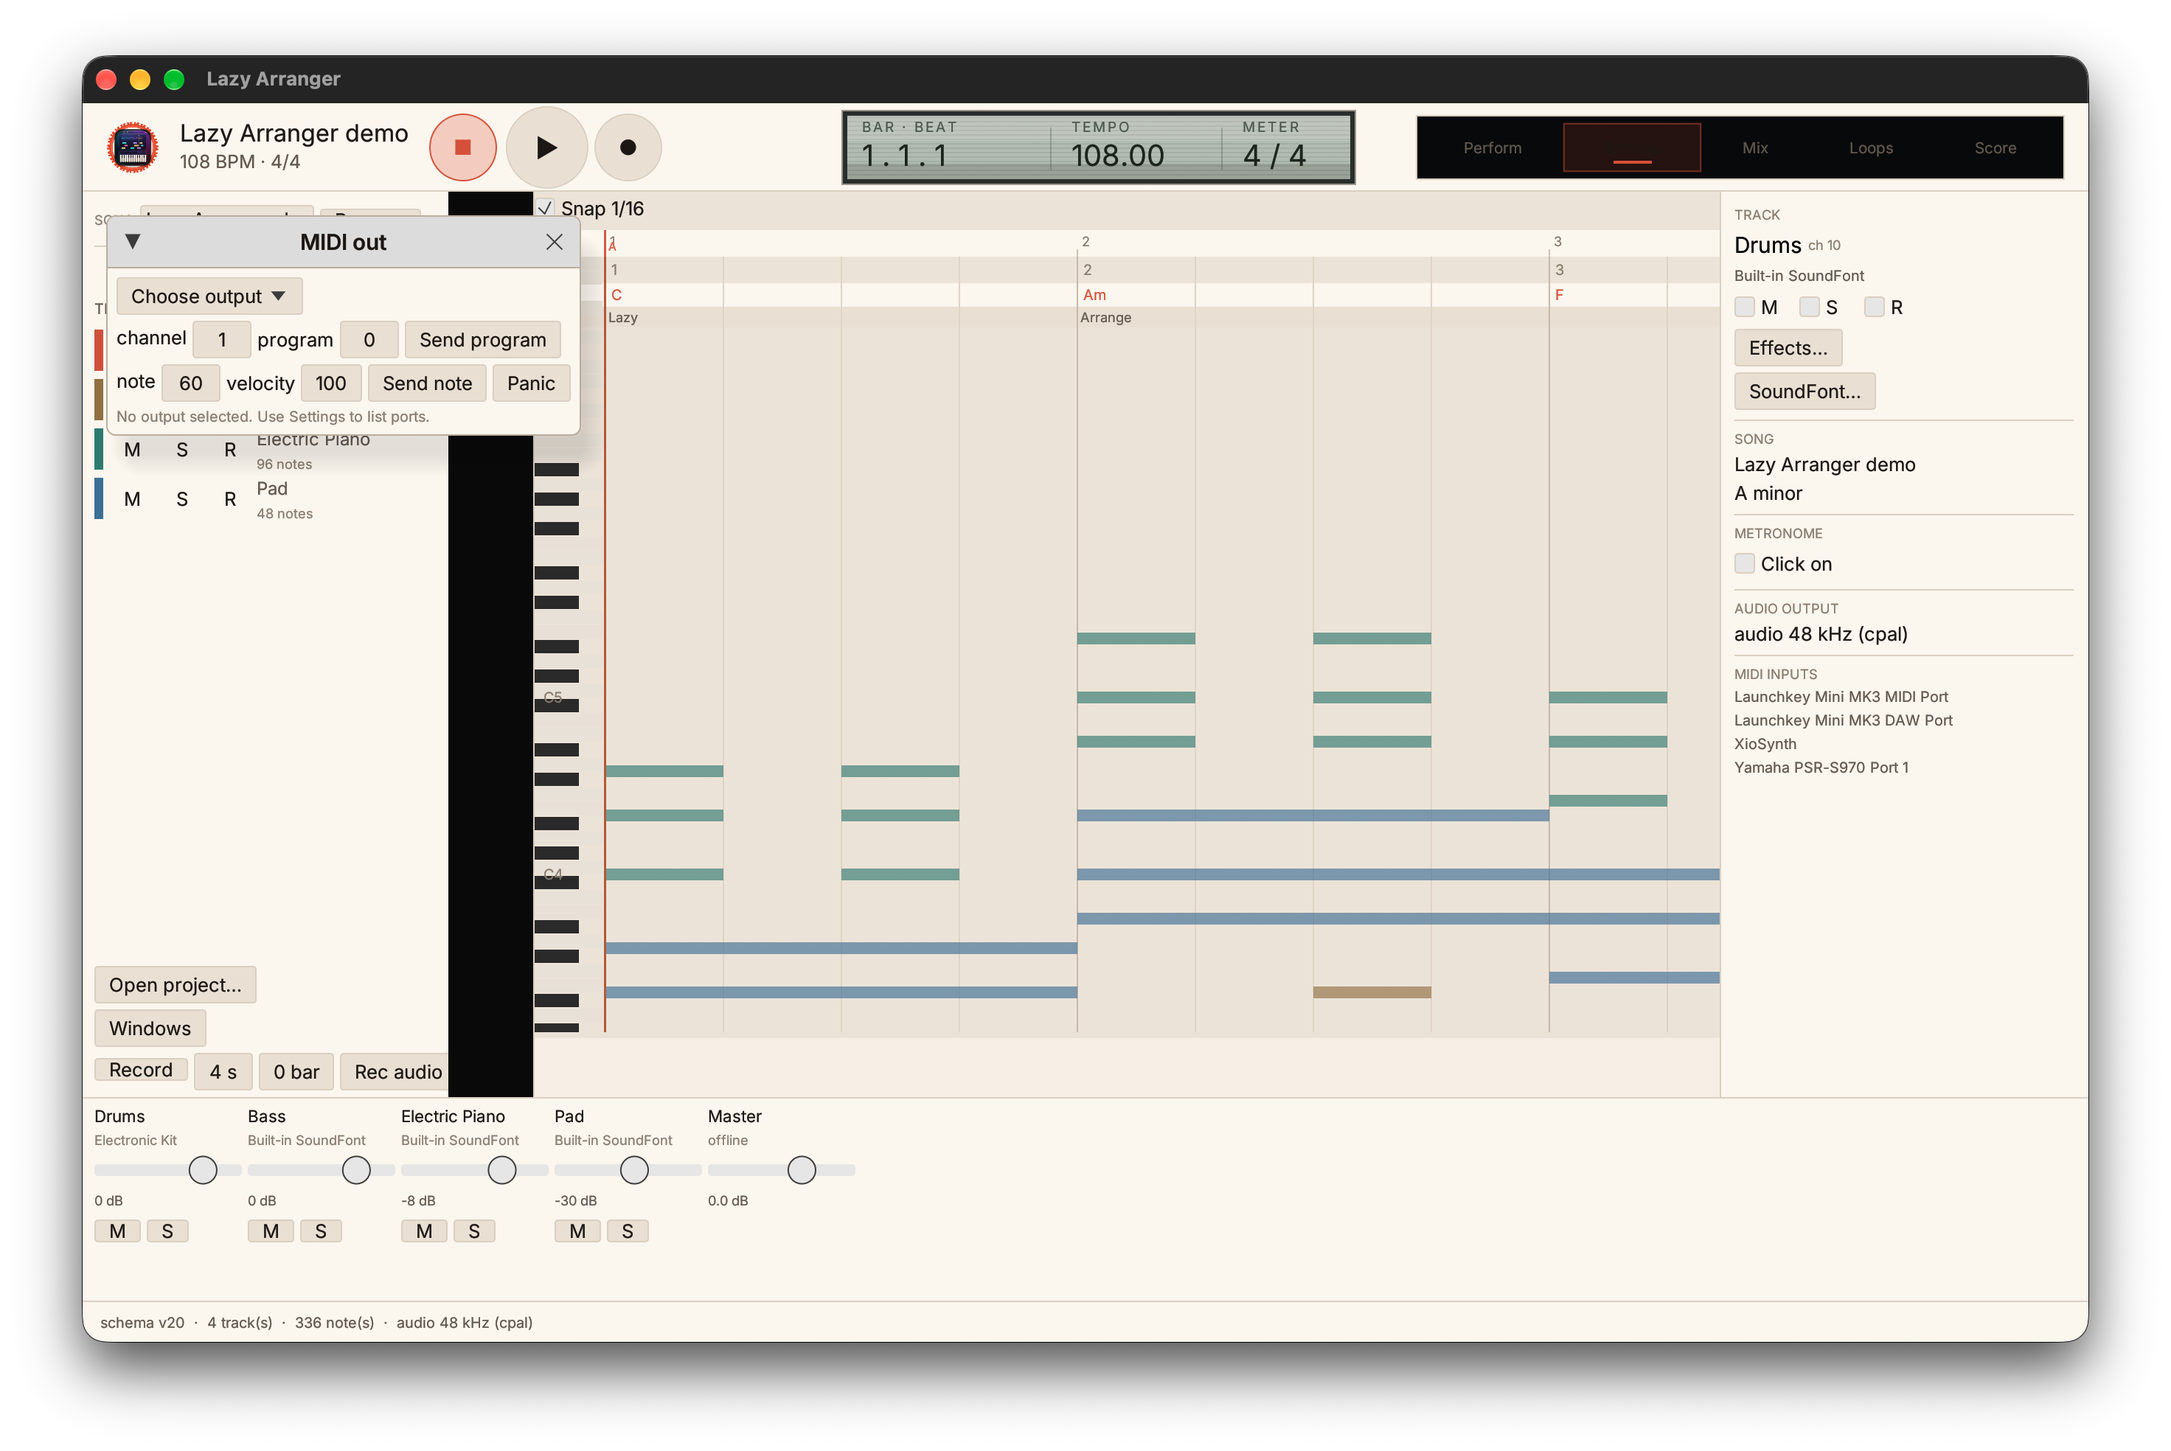
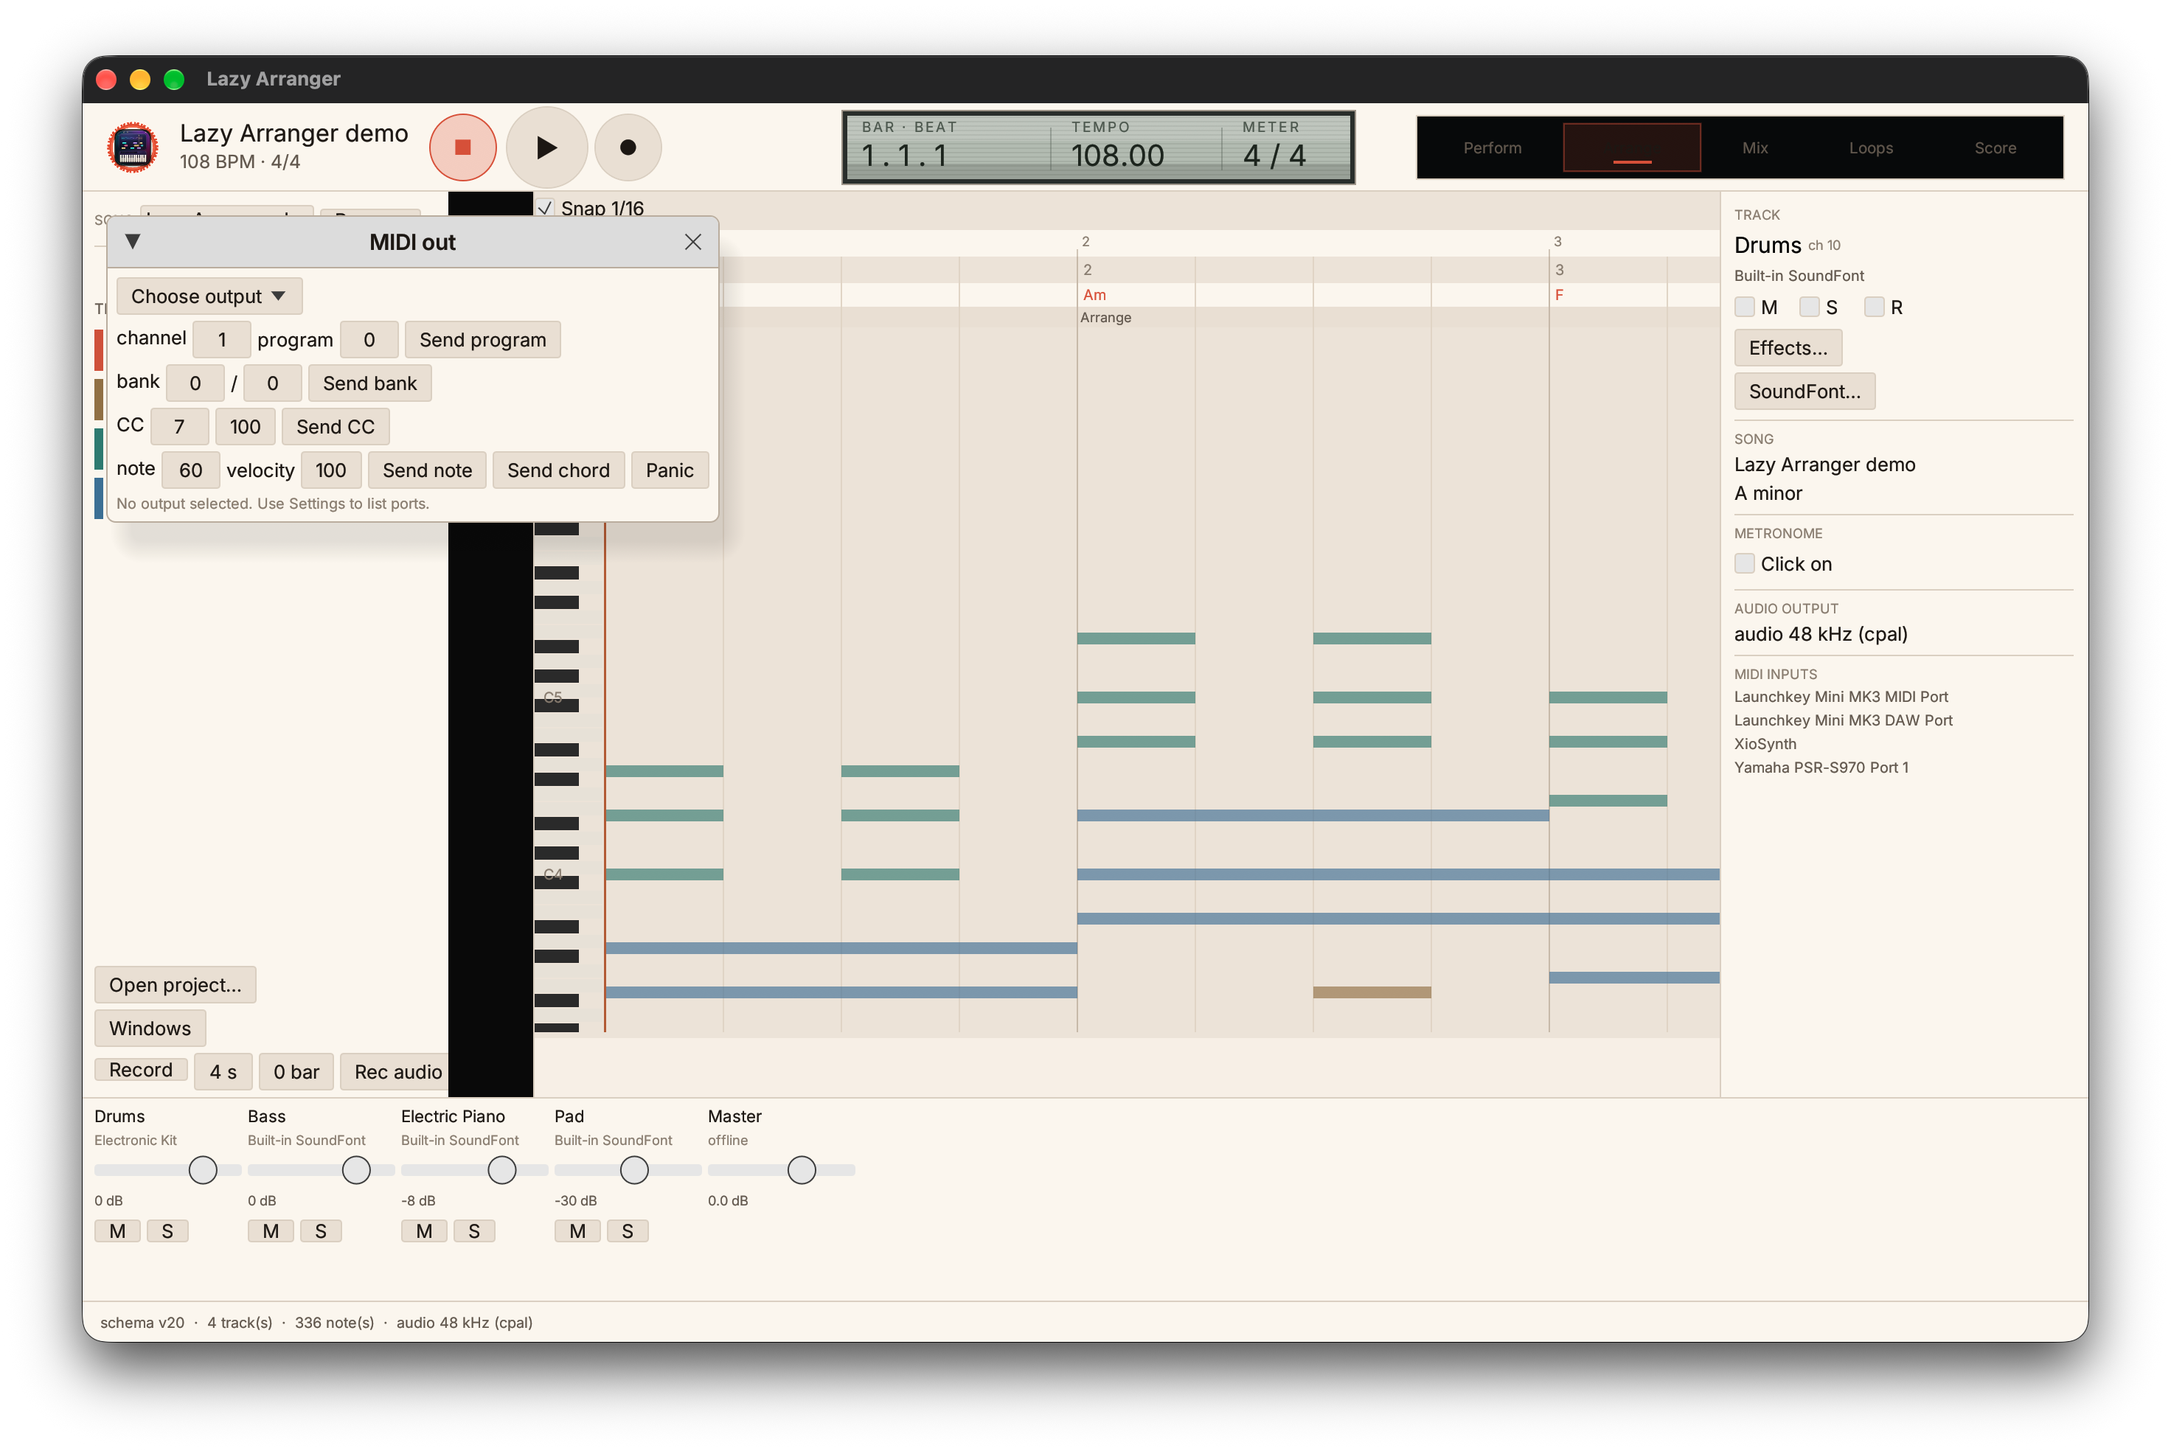
feat(desktop): send bank select and CC from MIDI out
Adds bank MSB/LSB and CC controls, refreshes the window capture and corrects the
stale timeline-lyrics audit note.

692 tests pass; clippy, fmt and rustdoc clean.

Changed region(s): [[0.0312, 0.155, 0.3438, 0.372], [0.125, 0.155, 0.2188, 0.186]]

diff --git a/apps/desktop/src/app.rs b/apps/desktop/src/app.rs
@@ -517,6 +517,10 @@ pub struct ShellApp {
     midi_out_program: u8,
     midi_out_note: u8,
     midi_out_velocity: u8,
+    midi_out_cc: u8,
+    midi_out_cc_value: u8,
+    midi_out_bank_msb: u8,
+    midi_out_bank_lsb: u8,
     au_editor_open: bool,
     au_editor_track: Option<TrackId>,
     au_editor_slot: Option<u32>,
@@ -739,6 +743,10 @@ impl ShellApp {
             midi_out_program: 0,
             midi_out_note: 60,
             midi_out_velocity: 100,
+            midi_out_cc: 7,
+            midi_out_cc_value: 100,
+            midi_out_bank_msb: 0,
+            midi_out_bank_lsb: 0,
             au_editor_open: false,
             au_editor_track: None,
             au_editor_slot: None,
@@ -2665,6 +2673,47 @@ impl ShellApp {
                         self.send_midi(music_core::MidiMessage::ProgramChange {
                             channel,
                             program: self.midi_out_program,
+                        });
+                    }
+                });
+                ui.horizontal(|ui| {
+                    ui.label("bank");
+                    ui.add(egui::DragValue::new(&mut self.midi_out_bank_msb).range(0..=127));
+                    ui.label("/");
+                    ui.add(egui::DragValue::new(&mut self.midi_out_bank_lsb).range(0..=127));
+                    if ui.button("Send bank").clicked()
+                        && let (Ok(channel), Ok(msb), Ok(lsb)) = (
+                            music_core::Channel::from_one_based(self.midi_out_channel),
+                            music_core::ControlNumber::new(0),
+                            music_core::ControlNumber::new(32),
+                        )
+                    {
+                        self.send_midi(music_core::MidiMessage::ControlChange {
+                            channel,
+                            controller: msb,
+                            value: self.midi_out_bank_msb,
+                        });
+                        self.send_midi(music_core::MidiMessage::ControlChange {
+                            channel,
+                            controller: lsb,
+                            value: self.midi_out_bank_lsb,
+                        });
+                    }
+                });
+                ui.horizontal(|ui| {
+                    ui.label("CC");
+                    ui.add(egui::DragValue::new(&mut self.midi_out_cc).range(0..=127));
+                    ui.add(egui::DragValue::new(&mut self.midi_out_cc_value).range(0..=127));
+                    if ui.button("Send CC").clicked()
+                        && let (Ok(channel), Ok(controller)) = (
+                            music_core::Channel::from_one_based(self.midi_out_channel),
+                            music_core::ControlNumber::new(self.midi_out_cc),
+                        )
+                    {
+                        self.send_midi(music_core::MidiMessage::ControlChange {
+                            channel,
+                            controller,
+                            value: self.midi_out_cc_value,
                         });
                     }
                 });

diff --git a/docs/audit/cpp-features-crosscheck.md b/docs/audit/cpp-features-crosscheck.md
@@ -11,7 +11,7 @@ section below is a row, so nothing is skipped. Status: **verified**,
 | 2 | Window: header, views, inspector, mixer panel, AI panel, light theme, zoom | partial | Header, LCD, five views, track list, Mix strips, volume automation lane, dark and light palettes (Settings toggle, live refresh), square corners, wheel and slider zoom; an Inspector window shows/edits the selected track's name, gain, pan, flags, program and summaries, and sidebar has a Windows menu for Inspector, Library, Pads, Assistant, MIDI map, Controllers, Lyrics, Markers, imports/exports and Settings. Light palette is selected in Settings; `docs/audit/light-theme.png` is a captured light window |
 | 3 | Tracks | partial | MIDI tracks with program, volume, pan, mute/solo/arm and audio references (schema v11); track list, mixer strips and keyboard export honour them; tracks also carry a SoundFont reference (v16) and audio references draw waveform peaks. No per-track input routing or multiple outputs |
 | 4 | Transport: play/stop, start, record, loop, metronome, ruler, tempo/meter edit, MIDI record, all-notes-off, auto inputs | partial | Audio play/pause/stop with silence on stop; CLI MIDI record/echo and clip-grid take recording. A sidebar Record button captures the selected MIDI keyboard for a chosen 1–60 s on a background thread and inserts the notes as one undoable track; the piano-roll ruler shows bar numbers and clicking it seeks the live player through the tempo map; `midi-panic` sends CC 123 on all 16 channels to a named output (no ports attached here, so the send is unverified); a persisted 0–2 bar count-in plays an audible metronome through a temporary cpal player before MIDI recording; the header transport has a record button and track rows have an R arm toggle; MIDI recording appends to the armed track (new track when none is armed); the 0–2 bar audible count-in precedes audio-input capture, which targets a record-armed track's audio reference; audio capture and input monitoring can select a named input device from Settings and fall back to the system default; no auto inputs; a Settings toggle quantises recorded starts to 1/16 before the take is inserted; the Inspector lists tempo changes and writes one at the playhead. The sidebar has Loop and From bar controls (playback restarts at the loop start), and a generated click track (bar downbeats accented) mixes into playback and `export-audio --metronome` |
-| 5 | Timeline clips | partial | Clip and chord lanes: click select, arrow move, shift+arrow resize, J join, N add, Delete remove; clip commands are undoable with overlap rejection. Markers and syllables are editable in Markers and Lyrics windows; markers draw in the bar ruler and each row has Go (add at playhead, edit or remove); timeline lyrics are not drawn in the roll; the Snap 1/16 toggle governs note drags and insertions; Shift-click and marquee multi-select clips, with arrow/Shift-arrow/Delete operations |
+| 5 | Timeline clips | partial | Clip and chord lanes: click select, arrow move, shift+arrow resize, J join, N add, Delete remove; clip commands are undoable with overlap rejection. Markers and syllables are editable in Markers and Lyrics windows; markers draw in the bar ruler and each row has Go (add at playhead, edit or remove); timeline lyrics draw in their lane and a click seeks the playhead to the syllable; the Snap 1/16 toggle governs note drags and insertions; Shift-click and marquee multi-select clips, with arrow/Shift-arrow/Delete operations |
 | 6 | Note editor: add/select/move/resize/delete, arrows, velocity lane, grid, quantise, piano keys, select all | partial | Click insert, select, delete, undo/redo, save, scroll/zoom. Drag a note body to move start and pitch, or its right edge to resize; starts snap to a 1/16 grid and each change is one command. Quantise 1/16 and 1/8 buttons snap all starts; A velocity lane under the roll draws per-note bars and click/drag sets velocity through one command; a piano-key strip auditions a pitch on click, and Cmd/Ctrl+A selects all notes on the selected track for one-step multi-delete. No copy/paste across views |
 | 7 | Cut/copy/paste in every view | partial | Notes copy, cut and paste in Arrange with Cmd/Ctrl+C/X/V at the playhead, each paste one undo step; a chord range can be copied and pasted through the same clipboard. Cmd/Ctrl+C/X/V also work on a multi-selection: copy takes every selected note, cut copies then deletes in one edit per track, and paste lands at the playhead. Paste lands at the mouse tick when the pointer is over the roll, else at the playhead; clicking a notehead in the Score selects it, and clicking a chord in the chord lane selects it; C/X/V copy, remove and paste chord ranges there, and Shift+V pastes the range four times one range-length apart as one edit. Note ranges still paste once |
 | 8 | Audio tracks | partial | Audio references (schema v12; fades in v17) with WAV import at 16/24/32-bit PCM and 32-bit float plus symphonia FLAC/MP3/M4A/AIFF/OGG decode, an in-point, waveform peaks drawn in Arrange, trim-from-front through one undoable command, tempo-derived length, and mixing into render and cpal playback with mute/solo, resampling and reported files. A bounce command renders the mix, writes a WAV and inserts it as an audio track (one undoable insert); a Mixer Freeze button renders one track to WAV, clears its notes and sets its audio reference atomically; export-stems and the shell Export stems mode write each audible track to its own WAV plus a stems.txt manifest (demo produced 4 files); audio references carry fade-in/fade-out lengths mixed as linear ramps and set from the trim row. `stretch` resamples a reference to its clip length (pitch shifts; it is not a phase-vocoder stretch); the waveform has zoom and position sliders; `record-audio` and a sidebar Rec audio button capture the default input through cpal to WAV; an Import audio window adds WAV or compressed audio as an audio track; `wav-gain`/`wav-normalize` edit files and the trim row Normalize writes a normalized copy and switches the reference; an optional input monitor (Settings, default off, feedback risk) opens cpal input and output streams and is unverified on hardware; each capture becomes its own audio track unless a track is record-armed, in which case the take replaces that track's audio reference; there is no take list or comping (a scoped model/UI decision) and no in-place destructive waveform editing; capture/permission remain unverified here |
@@ -30,7 +30,7 @@ section below is a row, so nothing is skipped. Status: **verified**,
 | 21 | MIDI devices and profiles | partial | One built-in PSR-S970 voice subset plus a YAML-subset loader (id, name, voices, banks, drum kits) with validation and keyword matching (`device-profile` resolved Finger Bass to 33); port enumeration, live input, CLI record/echo. Bank and drum-kit entries drive `export-keyboard --profile`: bank select MSB/LSB is written before each program, drums use the kit program and bank (audit: msb [63,0,0,0], lsb [0,1,1,1]). The Controllers window keeps the last 16 decoded note/CC/program/bend messages; no other devices or profile overrides |
 | 22 | Synth sound editors (D-05, XioSynth, S970 XG, L6max), sysex dumps | partial | A per-track synth patch (sine/saw/square/triangle, attack, decay, sustain, release, brightness) in schema v14, honoured by the render, edited through one undoable command, and exposed by a Synth patch window with Apply/Default/Clear (capture `docs/audit/synth-patch.png`). A generic Yamaha parameter-change builder with the 7-bit checksum and an XG System On dump (`sysex-xg-on`, 10 bytes written). No device-specific panels (D-05, XioSynth, S970 XG) or patch dumps |
 | 23 | Controller pages, MIDI Map, MIDI Learn, channel check | partial | MIDI map model with text persistence, learn capture, CLI bind/show, live application of play/stop/undo/scene/fader/pad, a MIDI map window that chooses an action, learns the next note/CC, saves automatically and clears bindings (with inline hints), `midi-channel-check` sends note-on/off on a chosen channel, and a Controllers window lists CC bindings with live values, starts a learn session and saves it. No MIDI ports were available here, so live values and the send remain hardware-unverified |
-| 24 | PSR-S970 tools | partial | Song export with setup bar, program, volume, pan, chord markers, lyrics and drums on channel 10, plus a byte-level audit that re-parses the file; the demo exported 5 tracks, 4 programs/volumes/pans, 16 chord markers and 128 drum notes. Numbered style catalog and `style-by-number` rendering. A MIDI out window sends program changes, notes, chords and panic to a chosen output, persists the output choice (`docs/audit/midi-out.png`); no registration remote, audition queue or hardware verification |
+| 24 | PSR-S970 tools | partial | Song export with setup bar, program, volume, pan, chord markers, lyrics and drums on channel 10, plus a byte-level audit that re-parses the file; the demo exported 5 tracks, 4 programs/volumes/pans, 16 chord markers and 128 drum notes. Numbered style catalog and `style-by-number` rendering. A MIDI out window sends program changes, bank select, CC, notes, chords and panic to a chosen output, persists the output choice (`docs/audit/midi-out.png`); no registration remote, audition queue or hardware verification |
 | 25 | Music Finder and Playlists | partial | JSON, CSV, TSV and MFD import (1,653-record real file), CLI, and an L-key Library window that loads any of those, searches title/detail, applies an entry's tempo and imports the row's style through the catalog (setting or ARRANGER_STYLE_LIBRARY), inserting its tracks with fresh ids and a prefix. Playlist rows are listed but not opened; `playlist-from-csv` converts a Music Finder CSV into a Yamaha playlist TSV (2 entries written with paths and REGIST). A real import was run through `library-import`: 1 track and 1,926 notes from ABBA Fernando; the ignored integration test passes when ARRANGER_STYLE_LIBRARY is set |
 | 26 | Zoom L6max mixer page and import | partial | `audio::l6max` scans a folder of takes, reads headers, flags the L6max's 32-bit float recordings, reports problems and imports each take as an audio track at a start tick; `l6max-import` did so for two synthetic takes (3.20 s, one float), and the shell Import L6max mode scans a folder and adds each WAV at the playhead. No device project-file parsing, mixer page or transport control; Mixer L6max panel scans a folder and imports takes as audio tracks |
 | 27 | AI chat with subscriptions/keys, one-undo-step changes, proposal cards | partial | A local assistant panel and command layer (`mcp::assistant`) parses help/song/undo and `tool <name> {json}`, reaches any of the current 94 tools through `tool`, logs replies and marks the project dirty only for changing calls; each tool call is one undo step. No model, network, subscriptions or keys, no proposal cards |

diff --git a/docs/audit/final-status.md b/docs/audit/final-status.md
@@ -88,5 +88,5 @@ For the clef layout, choose either four measures per system without clefs
 - A basic Style rules window edits destination channel, written root/type, NTR/NTT, held-note RTR, bass and note limits in the export draft.
 - Track/bus plug-in chains apply reported latency compensation; the local test VST3 gain fixture reports 32 samples and the delayed/dry track alignment test passes.
 - VST3 parameter changes use an `IParameterChanges` queue; a generic window edits them and saves state, but no installed VST3 exposes parameters, so it is unverified.
-- Windows > MIDI out sends program changes, test notes, chords and panic to a selected output, persists the output choice (capture `docs/audit/midi-out.png`); sends remain hardware-unverified.
+- Windows > MIDI out sends program changes, bank select, CC, test notes, chords and panic to a selected output, persists the output choice (capture `docs/audit/midi-out.png`); sends remain hardware-unverified.
 - Failed isolated VST3 scans are blocklisted persistently and shown/clearable in My Plug-Ins.
